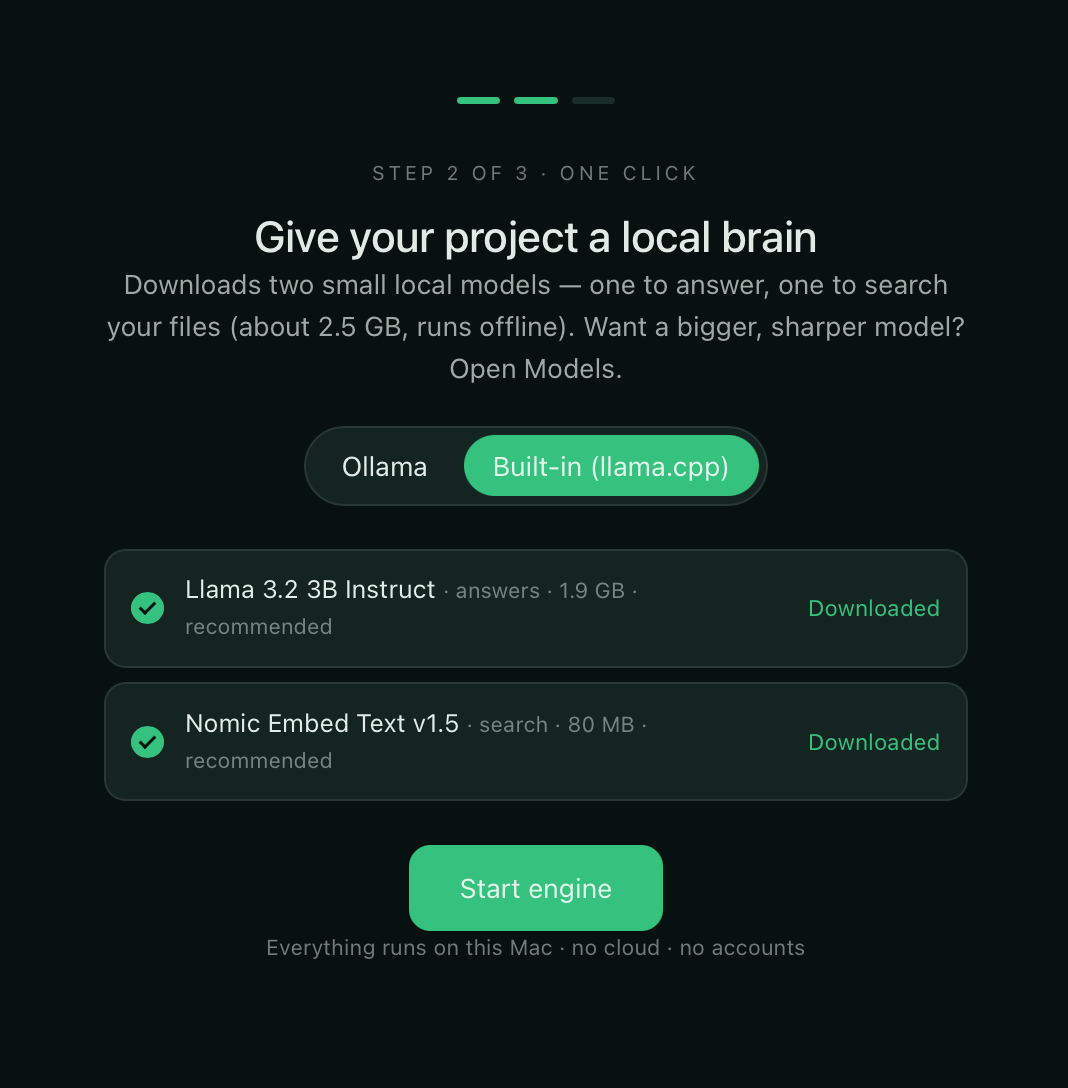
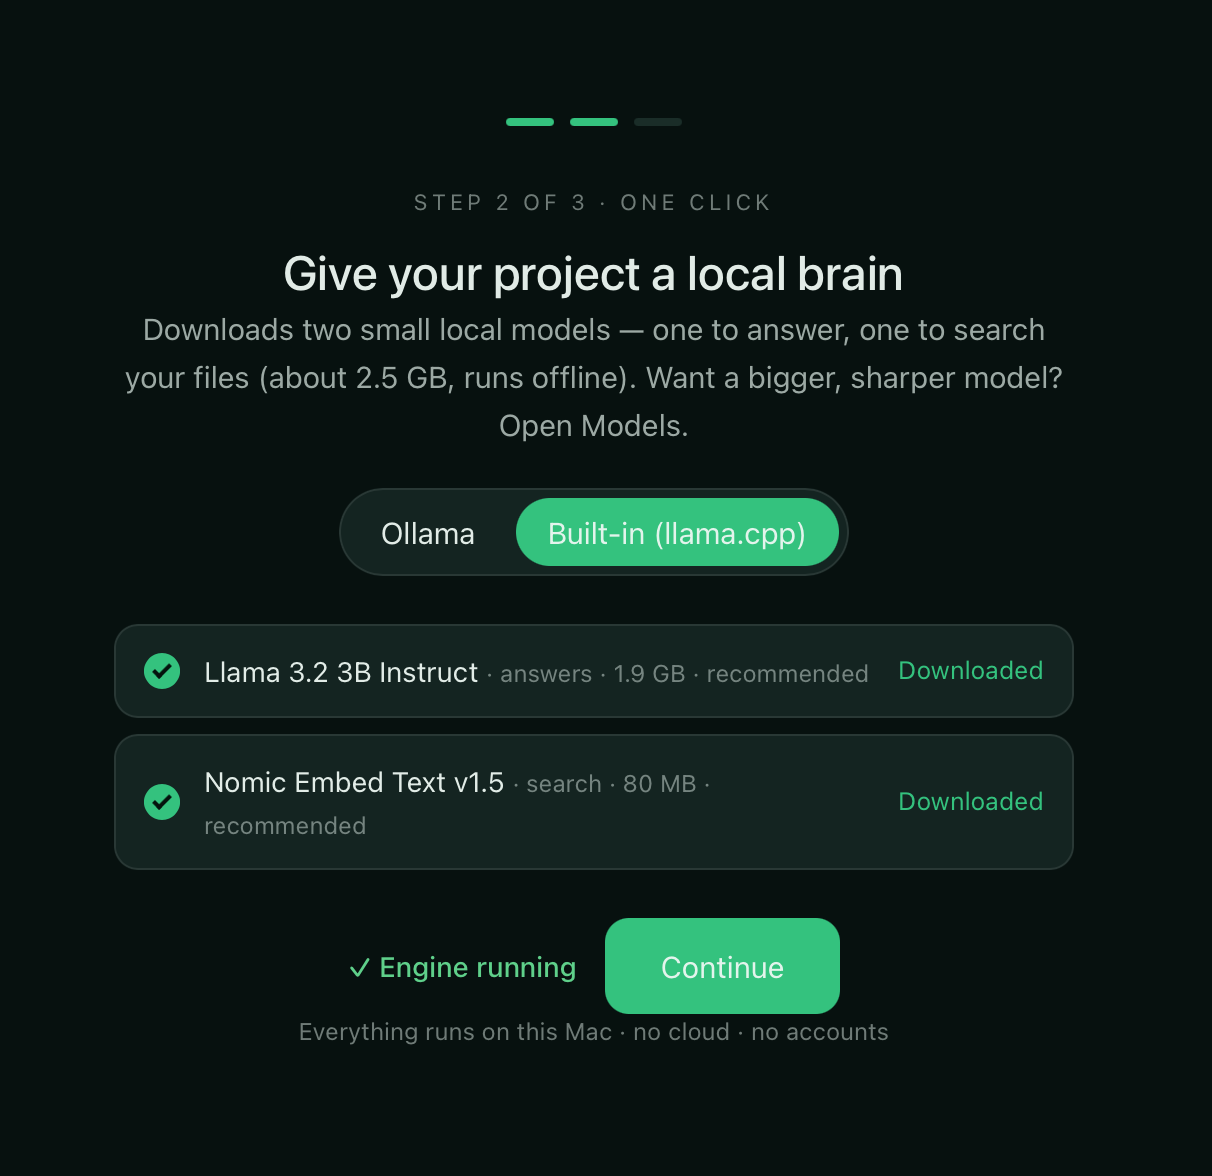
0.1.132: docs — refreshed, redacted README screenshots; gitignore raw screenshot drop

diff --git a/backend/app/config/settings.py b/backend/app/config/settings.py
@@ -7,7 +7,7 @@ from pydantic import BaseModel
 
 PRODUCT_NAME = "AI Private Workspace"
 # Keep in sync with frontend/src-tauri/tauri.conf.json on every release bump.
-APP_VERSION = "0.1.131"
+APP_VERSION = "0.1.132"
 # Keep the legacy hidden runtime directory for backward compatibility with
 # existing local installations. It is not a product-facing name.
 DEFAULT_APP_DATA_DIR = Path(".ai-workbench")

diff --git a/README.md b/README.md
@@ -91,6 +91,17 @@ The app also follows your system light/dark preference:
   <img src="docs/assets/screenshots/06-dark-ask.png" alt="Ask screen in dark theme" width="720">
 </p>
 
+## A few more screens
+
+<table>
+  <tr>
+    <td width="50%"><img src="docs/assets/screenshots/14-command-palette.png" alt="Command palette: jump to any repo, group, section or file" width="100%"><br><sub><b>Command palette</b> — <code>Cmd/Ctrl-K</code> to jump to any repository, group, section, or file.</sub></td>
+    <td width="50%"><img src="docs/assets/screenshots/13-security.png" alt="Security lens: scanners in CI and security-relevant findings" width="100%"><br><sub><b>Security lens</b> — which scan/audit steps run in CI, plus the security-relevant findings, each backed by a file.</sub></td>
+  </tr>
+</table>
+
+> Screenshots are taken on a demo project and any project names, file paths, and contributor details are redacted.
+
 ## What it does
 
 - **Understands your project.** Point it at a folder; a local scan recognizes what's there — Terraform, Terragrunt, Kubernetes, Helm, Docker, Python, GitLab CI, docs, and more.

diff --git a/CHANGELOG.md b/CHANGELOG.md
@@ -7,6 +7,11 @@ and this project aims to follow [Semantic Versioning](https://semver.org/spec/v2
 
 ## [Unreleased]
 
+## [0.1.132] - 2026-06-23
+
+### Documentation
+
+- **Refreshed README screenshots** with the current UI (pigeon brand, new tabs): a new Ask hero, the create-workspace / engine / build-context onboarding steps, and a small "A few more screens" gallery (command palette, security lens). All screenshots are redacted — workspace/project names, local file paths, and contributor details are blurred — and the raw, unredacted captures are git-ignored so they can never be committed.
 ## [0.1.131] - 2026-06-23
 
 ### Changed